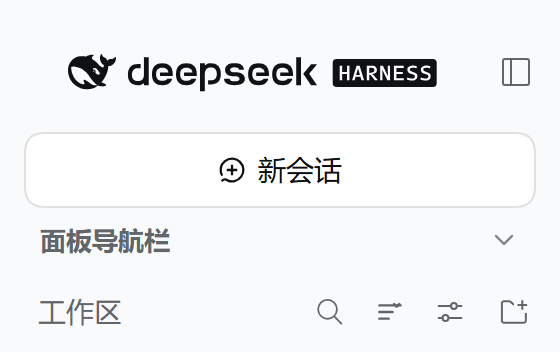
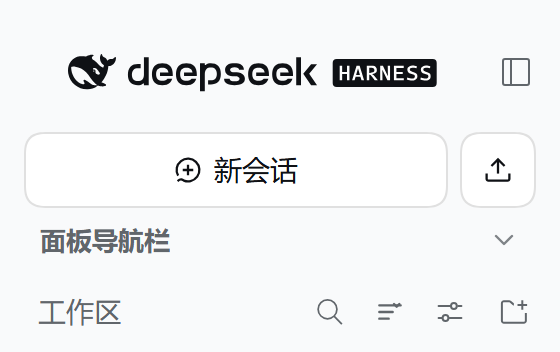
fix: keep panel group above scrollRegion on 2026-11 shell (1.0.1)

Changed region(s): [[0.3036, 0.4375, 0.6071, 0.5312], [0.7589, 0.4375, 0.9107, 0.5938], [0.7589, 0.375, 0.85, 0.4062]]

diff --git a/client.js b/client.js
@@ -28,25 +28,29 @@ window.__ModuleLoader__.load({
     ].join('');
 
     /*
-     * Layout contract of the current shell (dsh-client-ui-sidebar SidebarRoot):
+     * Layout contract of the shell (dsh-client-ui-sidebar SidebarRoot):
      *
      *   div.root (flex column)
      *     div.logoRow
-     *     button.newSession
-     *     button[data-dsh-part="sidebar-entry"]  (injected by other plugins)
+     *     div.newSessionRow > button.newSession
      *     div.scrollRegion
      *       div.scrollArea (CSS grid: 4px | 1fr | 6px)
      *         nav.panelList (grid-row 2, grid-column 2)
      *         div.regionArea (workspaces, grid-row 4, grid-column 2)
      *     div.footArea
+     *     button[data-dsh-part="sidebar-entry"]  (injected by other plugins)
      *
      * The panel rows are NOT the only member of the panel navigation group:
-     * plugins insert their own entry buttons as direct children of `root`,
-     * between New Session and scrollRegion. The toggle therefore belongs in
-     * `root` as well, right before the first entry — mounting it inside the
-     * scrollArea (as an earlier build did) lets CSS grid auto-placement drop
-     * it into the 4px leading gutter, which renders it as a narrow icon that
-     * overlaps the first panel rows.
+     * plugins insert their own entry buttons as direct children of `root`.
+     * Older shells mounted those entries between New Session and
+     * scrollRegion; since the 2026-11 shell update they are appended AFTER
+     * footArea, at the very bottom of the sidebar. The toggle therefore
+     * belongs in `root` right before the first entry, and entries that sit
+     * below scrollRegion are lifted back above it so the whole group
+     * (toggle, entries, native panel rows) stays together under New Session.
+     * Mounting the toggle inside the scrollArea (as an earlier build did)
+     * lets CSS grid auto-placement drop it into the 4px leading gutter,
+     * which renders it as a narrow icon overlapping the first panel rows.
      */
     const CSS = [
       '.dshpf-nav{display:flex;align-items:center;gap:6px;width:100%;min-height:32px;',
@@ -129,15 +133,37 @@ window.__ModuleLoader__.load({
       return { root, scrollRegion };
     }
 
-    /**
-     * The first plugin sidebar entry direct child of the shell root, else the
-     * scroll region. The toggle is inserted before it.
-     */
-    function findAnchor(root, scrollRegion) {
+    /** Plugin sidebar entries that are direct children of the shell root, in DOM order. */
+    function findEntries(root) {
+      const entries = [];
       for (const child of root.children) {
-        if (child.getAttribute('data-dsh-part') === 'sidebar-entry') return child;
+        if (child.getAttribute('data-dsh-part') === 'sidebar-entry') entries.push(child);
       }
-      return scrollRegion;
+      return entries;
+    }
+
+    /**
+     * Keep the panel navigation group contiguous above the scroll region:
+     * entries mounted after scrollRegion (new shell) are lifted above it in
+     * their existing relative order, then the toggle is placed before the
+     * first entry (or before scrollRegion when no plugin entry exists).
+     */
+    function placeGroup(root, scrollRegion, button) {
+      const entries = findEntries(root);
+      for (const entry of entries) {
+        if (scrollRegion.compareDocumentPosition(entry) & Node.DOCUMENT_POSITION_FOLLOWING) {
+          root.insertBefore(entry, scrollRegion);
+        }
+      }
+      const anchor = entries[0] ?? scrollRegion;
+      if (button.parentElement !== root || button.nextElementSibling !== anchor) {
+        root.insertBefore(button, anchor);
+      }
+      for (let i = 1; i < entries.length; i++) {
+        if (entries[i].previousElementSibling !== entries[i - 1]) {
+          root.insertBefore(entries[i], entries[i - 1].nextElementSibling);
+        }
+      }
     }
 
     function mountToggle(ctx) {
@@ -178,10 +204,7 @@ window.__ModuleLoader__.load({
         if (disposed) return;
         const shell = findShell();
         if (shell === null) return;
-        const anchor = findAnchor(shell.root, shell.scrollRegion);
-        if (button.parentElement !== shell.root || button.nextElementSibling !== anchor) {
-          shell.root.insertBefore(button, anchor);
-        }
+        placeGroup(shell.root, shell.scrollRegion, button);
       };
 
       ensure();

diff --git a/README.md b/README.md
@@ -37,7 +37,7 @@ For local development, use **Plugins → Add plugin** and choose this directory.
 
 ## Compatibility
 
-- Tested with DeepSeek Harness `0.2.2-rc.2` on Windows, in both the Tauri desktop app and the web UI.
+- Tested with DeepSeek Harness `0.2.2-rc.2` and `0.2.2-rc.3` (2026-11 shell update) on Windows, in both the Tauri desktop app and the web UI.
 - `package.json` declares `engines.dsh: ^0.2.2-rc.2`.
 - This is a DOM/CSS-level enhancement, not an official shell extension point. It reads the current sidebar structure (`nav[aria-label="全局面板"]`, `[data-dsh-part="sidebar-entry"]`, and the shell's `_panelList` / `_scrollArea` module classes). A future shell change can break placement or folding; the row itself stays visible and the plugin can be disabled safely.
 - It does not modify host files or other plugins.

diff --git a/README.zh.md b/README.zh.md
@@ -37,7 +37,7 @@ dsh plugin --profile <profile> add github:naofu233/dsh-panel-nav-fold
 
 ## 兼容性
 
-- 在 Windows 的 DeepSeek Harness `0.2.2-rc.2` 上测试过，Tauri 桌面端和 Web UI 都验证过。
+- 在 Windows 的 DeepSeek Harness `0.2.2-rc.2` 与 `0.2.2-rc.3`（2026-11 外壳更新）上测试过，Tauri 桌面端和 Web UI 都验证过。
 - `package.json` 声明 `engines.dsh: ^0.2.2-rc.2`。
 - 这是 DOM/CSS 层的视觉增强，不是官方 shell 扩展点。它读取当前侧边栏结构（`nav[aria-label="全局面板"]`、`[data-dsh-part="sidebar-entry"]`，以及 shell 的 `_panelList` / `_scrollArea` 模块类）。未来 shell 改结构可能导致位置或折叠失效；标题行本身仍在，插件可以安全禁用。
 - 不修改宿主文件，也不修改其他插件。
